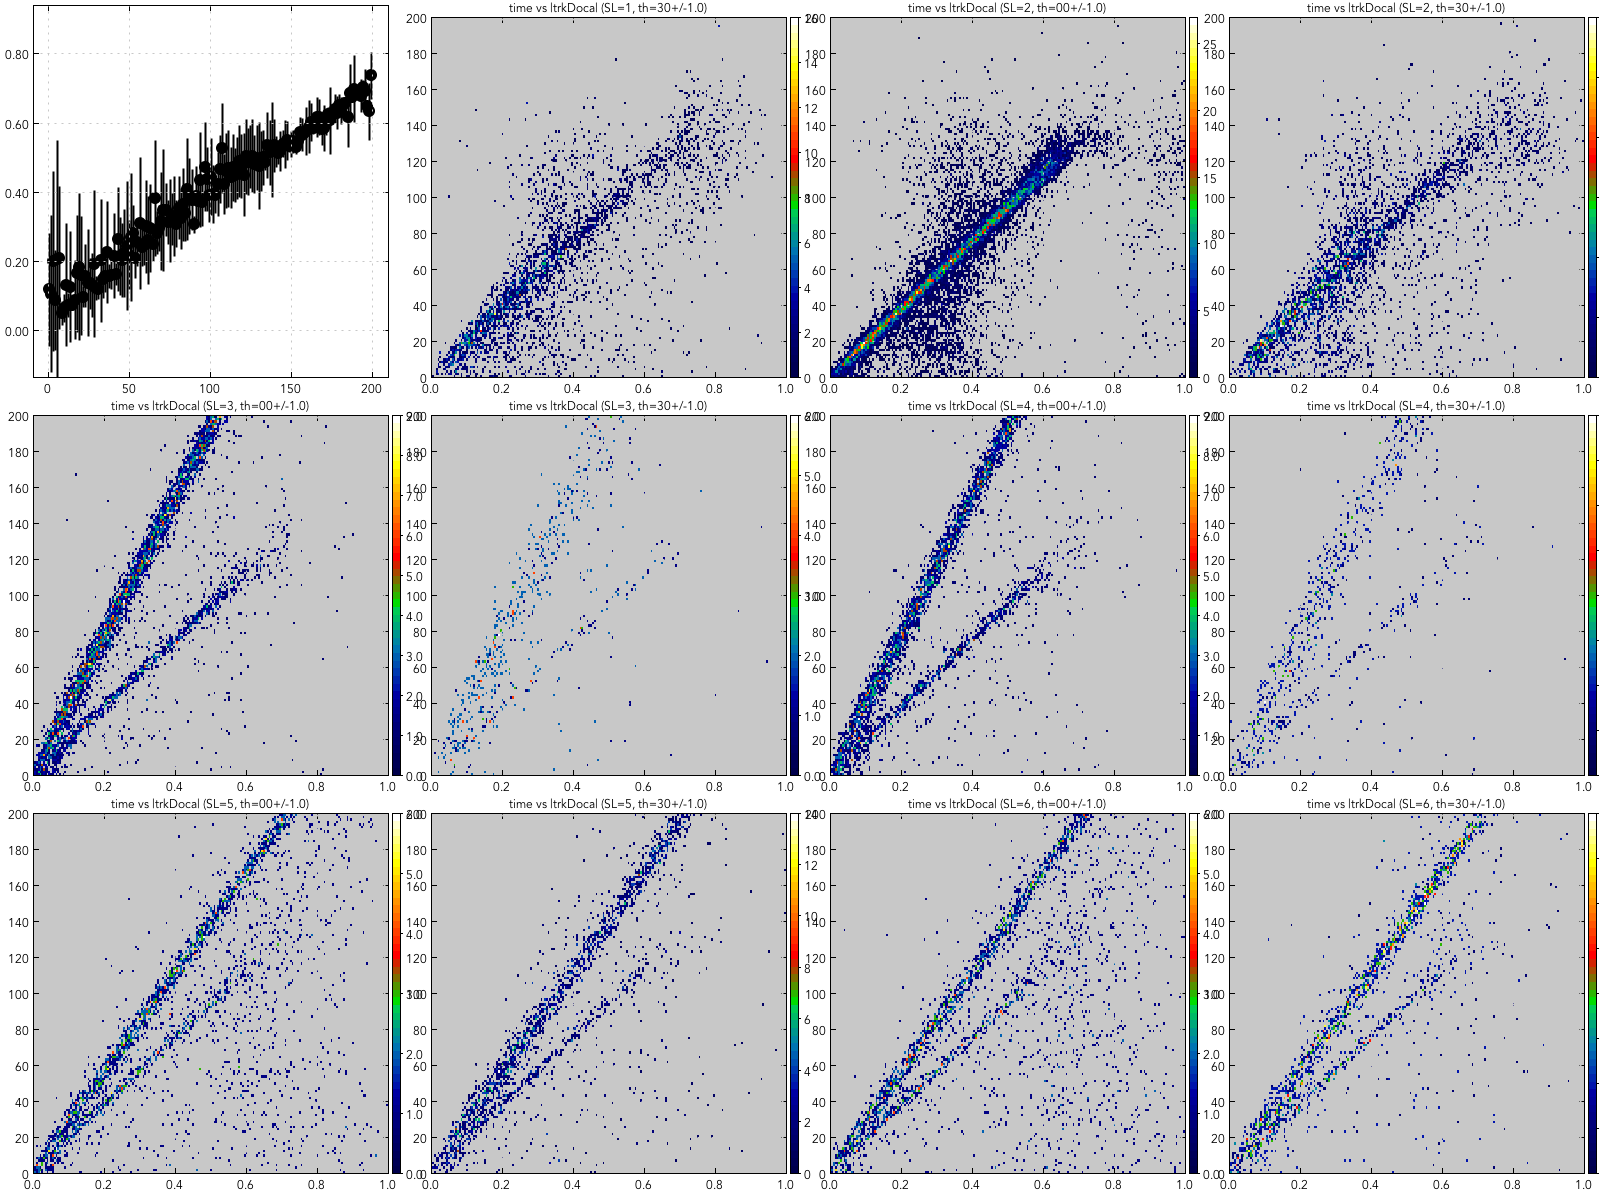
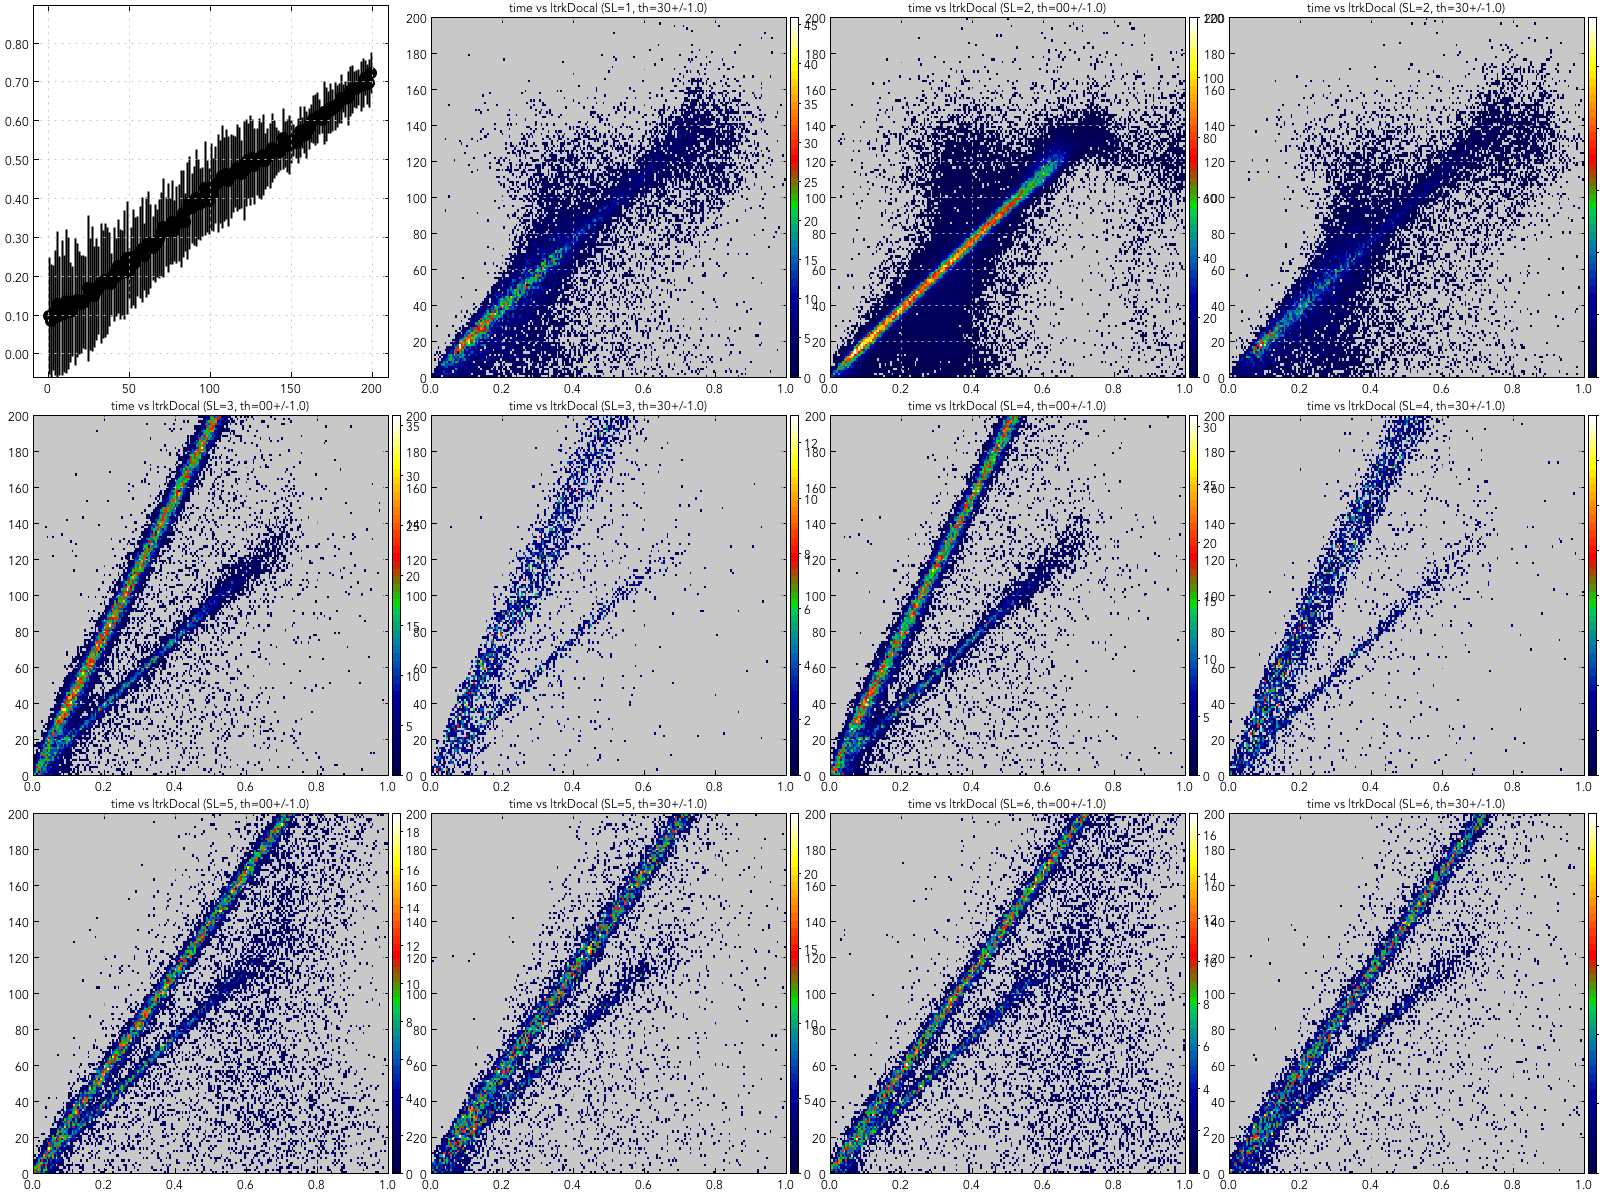
added all sectors/superlayer implemetation

diff --git a/src/org/jlab/dc_calibration/domain/TimeToDistanceFitter.java b/src/org/jlab/dc_calibration/domain/TimeToDistanceFitter.java
@@ -82,8 +82,16 @@ public class TimeToDistanceFitter implements ActionListener, Runnable {
 	private EmbeddedCanvas c01;
 	private EmbeddedCanvas c03;
 	private EmbeddedCanvas c06;
+
+	private EmbeddedCanvas sector1;
+	private EmbeddedCanvas sector2;
+	private EmbeddedCanvas sector3;
+	private EmbeddedCanvas sector4;
+	private EmbeddedCanvas sector5;
+	private EmbeddedCanvas sector6;
+
 	private GraphErrors[][] profileX;
-	private GraphErrors[][] profileXvz;
+	private GraphErrors[][][] profileXvz;
 	private GraphErrors[][] profileY;
 
 	private boolean acceptorder = false;
@@ -258,16 +266,17 @@ public class TimeToDistanceFitter implements ActionListener, Runnable {
 				h2timeVtrkDoca.get(new Coordinate(i, j)).setTitle(hTtl);
 			}
 		}
+		for (int i = 0; i < 6; i++) {
+			for (int j = 0; j < nSL; j++) {
+				for (int k = 0; k < nThBinsVz; k++) { // nThBinsVz theta bins +/-2
+					// deg around 0, 10, 20, 30,
+					// 40, and 50 degs
+					hNm = String.format("Sector %d timeVtrkDocaS%dTh%02d", i, j, k);
+					h2timeVtrkDocaVZ.put(new Coordinate(i, j, k), new H2F(hNm, 200, 0.0, 1.0, 150, 0.0, 200.0));
 
-		for (int i = 0; i < nSL; i++) {
-			for (int j = 0; j < nThBinsVz; j++) { // nThBinsVz theta bins +/-2
-				// deg around 0, 10, 20, 30,
-				// 40, and 50 degs
-				hNm = String.format("timeVtrkDocaS%dTh%02d", i, j);
-				h2timeVtrkDocaVZ.put(new Coordinate(i, j), new H2F(hNm, 200, 0.0, 1.0, 150, 0.0, 200.0));
-
-				hTtl = String.format("time vs |trkDoca| (SL=%d, th(%2.1f,%2.1f))", i + 1, thEdgeVzL[j], thEdgeVzH[j]); // Worked
-				h2timeVtrkDocaVZ.get(new Coordinate(i, j)).setTitle(hTtl);
+					hTtl = String.format("time vs. Doca (SL=%d, th(%2.1f,%2.1f))", j + 1, thEdgeVzL[k], thEdgeVzH[k]); // Worked
+					h2timeVtrkDocaVZ.get(new Coordinate(i, j, k)).setTitle(hTtl);
+				}
 			}
 		}
 	}
@@ -285,6 +294,26 @@ public class TimeToDistanceFitter implements ActionListener, Runnable {
 		c06 = new EmbeddedCanvas();
 		c06.setSize(4 * 400, 6 * 400);
 		c06.divide(4, 6);
+
+		sector1 = new EmbeddedCanvas();
+		sector2 = new EmbeddedCanvas();
+		sector3 = new EmbeddedCanvas();
+		sector4 = new EmbeddedCanvas();
+		sector5 = new EmbeddedCanvas();
+		sector6 = new EmbeddedCanvas();
+
+		sector1.setSize(4 * 400, 6 * 400);
+		sector1.divide(6, 6);
+		sector2.setSize(4 * 400, 6 * 400);
+		sector2.divide(6, 6);
+		sector3.setSize(4 * 400, 6 * 400);
+		sector3.divide(6, 6);
+		sector4.setSize(4 * 400, 6 * 400);
+		sector4.divide(6, 6);
+		sector5.setSize(4 * 400, 6 * 400);
+		sector5.divide(6, 6);
+		sector6.setSize(4 * 400, 6 * 400);
+		sector6.divide(6, 6);
 	}
 
 	protected void processData() {
@@ -344,6 +373,7 @@ public class TimeToDistanceFitter implements ActionListener, Runnable {
 		int nHitsInSeg = 0;
 		for (int j = 0; j < bnkSegs.rows(); j++) {
 			int superlayer = bnkSegs.getInt("superlayer", j);
+			int sector = bnkSegs.getInt("sector", j);
 			gSegmAvgWireTBSegments.put(bnkSegs.getInt("ID", j), bnkSegs.getDouble("avgWire", j));
 			gFitChisqProbTBSegments.put(bnkSegs.getInt("ID", j), bnkSegs.getDouble("fitChisqProb", j));
 
@@ -382,7 +412,7 @@ public class TimeToDistanceFitter implements ActionListener, Runnable {
 						h2timeVtrkDoca.get(new Coordinate(superlayer - 1, 1)).fill(Math.abs(gTrkDoca), gTime);
 					if (bnkSegs.getInt("Hit" + h + "_ID", j) > -1 && thBnVz > -1 && thBnVz < nThBinsVz) {
 						double docaNorm = gTrkDoca / docaMax;
-						h2timeVtrkDocaVZ.get(new Coordinate(superlayer - 1, thBnVz)).fill(Math.abs(docaNorm), gTime);
+						h2timeVtrkDocaVZ.get(new Coordinate(sector - 1, superlayer - 1, thBnVz)).fill(Math.abs(docaNorm), gTime);
 					}
 				}
 			}
@@ -467,11 +497,11 @@ public class TimeToDistanceFitter implements ActionListener, Runnable {
 				profileX[i][j] = h2timeVtrkDoca.get(new Coordinate(i, j)).getProfileX();
 				profileY[i][j] = h2timeVtrkDoca.get(new Coordinate(i, j)).getProfileY();
 				c0.cd(i * 2 + j);
-				c0.draw(h2timeVtrkDoca.get(new Coordinate(i, j))); // c0.draw(profileX[i][j],"same");
+				c0.draw(h2timeVtrkDoca.get(new Coordinate(i, j)));
 				c0.cd(i * 2 + j + 4);
-				c0.draw(profileX[i][j]); // c0.draw(h2timeVtrkDoca[i][j]);
+				c0.draw(profileX[i][j]);
 				c0.cd(i * 2 + j + 8);
-				c0.draw(profileY[i][j]); // c0.draw(h2timeVtrkDoca[i][j]);
+				c0.draw(profileY[i][j]);
 			}
 		}
 		imgNm = "src/images/timeVsTrkDoca_and_Profiles.png";
@@ -484,10 +514,12 @@ public class TimeToDistanceFitter implements ActionListener, Runnable {
 		imgNm = "src/images/timeVsTrkDoca_and_Profiles2.png";
 		c01.save(imgNm);
 
-		profileXvz = new GraphErrors[nSL][nThBinsVz];
-		for (int i = 0; i < nSL; i++) {
-			for (int j = 0; j < nThBinsVz; j++) {
-				profileXvz[i][j] = h2timeVtrkDocaVZ.get(new Coordinate(i, j)).getProfileX();
+		profileXvz = new GraphErrors[6][nSL][nThBinsVz];
+		for (int i = 0; i < 6; i++) {
+			for (int j = 0; j < nSL; j++) {
+				for (int k = 0; k < nThBinsVz; k++) {
+					profileXvz[i][j][k] = h2timeVtrkDocaVZ.get(new Coordinate(i, j, k)).getProfileX();
+				}
 			}
 		}
 		// Lets Run the Fitter
@@ -495,51 +527,79 @@ public class TimeToDistanceFitter implements ActionListener, Runnable {
 		// Done running fitter
 		for (int j = 0; j < nThBinsVz; j++) { // Row #
 			c03.cd(j * 4 + 0);
-			c03.draw(h2timeVtrkDocaVZ.get(new Coordinate(0, j))); // c0.draw(profileX[i][j],"same");
+			c03.draw(h2timeVtrkDocaVZ.get(new Coordinate(0, 0, j))); // c0.draw(profileX[i][j],"same");
 			c03.cd(j * 4 + 1);
-			c03.draw(h2timeVtrkDocaVZ.get(new Coordinate(1, j))); // c0.draw(profileX[i][j],"same");
+			c03.draw(h2timeVtrkDocaVZ.get(new Coordinate(0, 1, j))); // c0.draw(profileX[i][j],"same");
 			c03.cd(j * 4 + 2);
-			c03.draw(profileXvz[0][j]);
+			c03.draw(profileXvz[0][0][j]);
 			c03.cd(j * 4 + 3);
-			c03.draw(profileXvz[1][j]);
+			c03.draw(profileXvz[0][1][j]);
 		}
 		imgNm = "src/images/timeVsTrkDoca_and_ProfilesVZ.png";
 		c03.save(imgNm);
 
-		calibFnToDraw_withGROOT[][] myFitLinesGroot = new calibFnToDraw_withGROOT[nSL][nThBinsVz];
-		for (int i = 0; i < nSL; i++) {
-			for (int j = 0; j < nThBinsVz; j++) {
-				String hNm = String.format("myFitLinesS%dTh%d", i + 1, j);
-				myFitLinesGroot[i][j] = new calibFnToDraw_withGROOT(hNm, 0.0, 1.0, isLinearFit);
-				myFitLinesGroot[i][j].setLineColor(2);
-				myFitLinesGroot[i][j].setLineWidth(3);
-				myFitLinesGroot[i][j].setLineStyle(4);
-				pars4FitLine[5] = 1.0 * (i + 1);
-				pars4FitLine[6] = 0.5 * (thEdgeVzL[j] + thEdgeVzH[j]);
-				pars4FitLine[7] = 2.0 * wpdist[i];
-				myFitLinesGroot[i][j].setParameters(pars4FitLine);
-				System.out.println("Groot f(0/0.5/1.0) = " + myFitLinesGroot[i][j].evaluate(0.0) + ", "
-				        + myFitLinesGroot[i][j].evaluate(0.5) + ", " + myFitLinesGroot[i][j].evaluate(1.0));
+		calibFnToDraw_withGROOT[][][] myFitLinesGroot = new calibFnToDraw_withGROOT[6][nSL][nThBinsVz];
+		for (int i = 0; i < 6; i++) {
+			for (int j = 0; j < nSL; j++) {
+				for (int k = 0; k < nThBinsVz; k++) {
+					String hNm = String.format("myFitLinesS%dTh%d", i + 1, j);
+					myFitLinesGroot[i][j][k] = new calibFnToDraw_withGROOT(hNm, 0.0, 1.0, isLinearFit);
+					myFitLinesGroot[i][j][k].setLineColor(2);
+					myFitLinesGroot[i][j][k].setLineWidth(3);
+					myFitLinesGroot[i][j][k].setLineStyle(4);
+					pars4FitLine[5] = 1.0 * (i + 1);
+					pars4FitLine[6] = 0.5 * (thEdgeVzL[j] + thEdgeVzH[j]);
+					pars4FitLine[7] = 2.0 * wpdist[i];
+					myFitLinesGroot[i][j][k].setParameters(pars4FitLine);
+					System.out.println("Groot f(0/0.5/1.0) = " + myFitLinesGroot[i][j][k].evaluate(0.0) + ", "
+					        + myFitLinesGroot[i][j][k].evaluate(0.5) + ", " + myFitLinesGroot[i][j][k].evaluate(1.0));
 
+				}
 			}
 		}
 
-		for (int j = 0; j < nThBinsVz; j++) {
-			c06.cd(j * 4 + 0);
-			c06.draw(h2timeVtrkDocaVZ.get(new Coordinate(0, j)));
-			c06.draw(myFitLinesGroot[0][j], "same");
-			c06.cd(j * 4 + 1);
-			c06.draw(h2timeVtrkDocaVZ.get(new Coordinate(1, j)));
-			c06.draw(myFitLinesGroot[1][j], "same");
-			c06.cd(j * 4 + 2);
-			c06.draw(profileXvz[0][j]);
-			c06.draw(myFitLinesGroot[0][j], "same");
-			c06.cd(j * 4 + 3);
-			c06.draw(profileXvz[1][j]);
-			c06.draw(myFitLinesGroot[1][j], "same");
+		for (int k = 0; k < nThBinsVz; k++) {
+			c06.cd(k * 4 + 0);
+			c06.draw(h2timeVtrkDocaVZ.get(new Coordinate(0, 0, k)));
+			c06.draw(myFitLinesGroot[0][0][k], "same");
+			c06.cd(k * 4 + 1);
+			c06.draw(h2timeVtrkDocaVZ.get(new Coordinate(0, 1, k)));
+			c06.draw(myFitLinesGroot[0][1][k], "same");
+			c06.cd(k * 4 + 2);
+			c06.draw(profileXvz[0][0][k]);
+			c06.draw(myFitLinesGroot[0][0][k], "same");
+			c06.cd(k * 4 + 3);
+			c06.draw(profileXvz[0][1][k]);
+			c06.draw(myFitLinesGroot[0][1][k], "same");
 		}
 		imgNm = "src/images/myTestFitFunctionAllThBins_wdGroot.png";
 		c06.save(imgNm);
+		int canvasPlace = 0;
+		for (int j = 0; j < nSL; j++) {
+			for (int k = 0; k < nThBinsVz; k++) {
+				sector1.cd(canvasPlace);
+				sector2.cd(canvasPlace);
+				sector3.cd(canvasPlace);
+				sector4.cd(canvasPlace);
+				sector5.cd(canvasPlace);
+				sector6.cd(canvasPlace);
+
+				canvasPlace++;
+
+				sector1.draw(h2timeVtrkDocaVZ.get(new Coordinate(0, j, k)));
+				sector1.draw(myFitLinesGroot[0][j][k], "same");
+				sector2.draw(h2timeVtrkDocaVZ.get(new Coordinate(1, j, k)));
+				sector2.draw(myFitLinesGroot[1][j][k], "same");
+				sector3.draw(h2timeVtrkDocaVZ.get(new Coordinate(2, j, k)));
+				sector3.draw(myFitLinesGroot[2][j][k], "same");
+				sector4.draw(h2timeVtrkDocaVZ.get(new Coordinate(3, j, k)));
+				sector4.draw(myFitLinesGroot[3][j][k], "same");
+				sector5.draw(h2timeVtrkDocaVZ.get(new Coordinate(4, j, k)));
+				sector5.draw(myFitLinesGroot[4][j][k], "same");
+				sector6.draw(h2timeVtrkDocaVZ.get(new Coordinate(5, j, k)));
+				sector6.draw(myFitLinesGroot[5][j][k], "same");
+			}
+		}
 
 		// 10/4/16: Trying to make plot of residuals for each superlayer
 		H1F[] h1Residual = new H1F[nSL];
@@ -552,10 +612,13 @@ public class TimeToDistanceFitter implements ActionListener, Runnable {
 	}
 
 	protected void addToPane() {
-		dcTabbedPane.addCanvasToPane("set 1", c0);
-		dcTabbedPane.addCanvasToPane("set 2", c01);
-		dcTabbedPane.addCanvasToPane("set 3", c03);
-		dcTabbedPane.addCanvasToPane("set 4", c06);
+		dcTabbedPane.addCanvasToPane("Sector 1", sector1);
+		dcTabbedPane.addCanvasToPane("Sector 2", sector2);
+		dcTabbedPane.addCanvasToPane("Sector 3", sector3);
+		dcTabbedPane.addCanvasToPane("Sector 4", sector4);
+		dcTabbedPane.addCanvasToPane("Sector 5", sector5);
+		dcTabbedPane.addCanvasToPane("Sector 6", sector6);
+
 		dcTabbedPane.showFrame();
 
 	}

diff --git a/src/org/jlab/dc_calibration/domain/KrishnaFcn.java b/src/org/jlab/dc_calibration/domain/KrishnaFcn.java
@@ -6,6 +6,7 @@ package org.jlab.dc_calibration.domain;
 
 import static org.jlab.dc_calibration.domain.Constants.beta;
 import static org.jlab.dc_calibration.domain.Constants.cos30;
+import static org.jlab.dc_calibration.domain.Constants.nThBinsVz;
 import static org.jlab.dc_calibration.domain.Constants.rad2deg;
 import static org.jlab.dc_calibration.domain.Constants.thEdgeVzH;
 import static org.jlab.dc_calibration.domain.Constants.thEdgeVzL;
@@ -18,10 +19,10 @@ public class KrishnaFcn implements FCNBase {
 
 	private int slNum;
 	private int nThBins;
-	private GraphErrors[][] profileX;
+	private GraphErrors[][][] profileX;
 	private boolean isLinear = false;
 
-	public KrishnaFcn(int slNum, int nThBins, GraphErrors[][] profileX, boolean isLinear) {
+	public KrishnaFcn(int slNum, int nThBins, GraphErrors[][][] profileX, boolean isLinear) {
 		this.profileX = profileX;
 		this.slNum = slNum;
 		this.nThBins = nThBins;
@@ -40,32 +41,32 @@ public class KrishnaFcn implements FCNBase {
 		double measTime = 0.;
 		double measTimeErr = 0.;
 		double calcTime = 0.;
+		for (int sector = 0; sector < 6; sector++) {
+			for (int sl = 0; sl < slNum; sl++) {
+				for (int th = 1; th < nThBinsVz; th++) { // Using only some theta binsbetween 0 and 30 degrees
+					thetaDeg = 0.5 * (thEdgeVzL[th] + thEdgeVzH[th]);// No 0.5 factor used before 9/20/16
+					for (int i = 0; i < profileX[sector][sl][th].getDataSize(0); i++) {
+						docaNorm = profileX[sector][sl][th].getDataX(i);
+						measTime = profileX[sector][sl][th].getDataY(i);
+						measTimeErr = profileX[sector][sl][th].getDataEY(i);
+						calcTime = isLinear ? calcTimeFunc(0, sl + 1, docaNorm, par) : calcTimeFunc(0, sl + 1, thetaDeg, docaNorm, par);
 
-		for (int sl = 0; sl < slNum; sl++) {
-			for (int th = 1; th < 3; th++) { // Using only some theta bins
-			                                 // between 0 and 30 degress
-				thetaDeg = 0.5 * (thEdgeVzL[th] + thEdgeVzH[th]);// No 0.5 factor used before 9/20/16
-				for (int i = 0; i < profileX[sl][th].getDataSize(0); i++) {
-					docaNorm = profileX[sl][th].getDataX(i);
-					measTime = profileX[sl][th].getDataY(i);
-					measTimeErr = profileX[sl][th].getDataEY(i);
-					calcTime = isLinear ? calcTimeFunc(0, sl + 1, docaNorm, par) : calcTimeFunc(0, sl + 1, thetaDeg, docaNorm, par);
-
-					// 9/27/16: without docaNorm<0.9, the minimization was
-					// very unstable. For example,
-					// tmax for SL=2 (i.e. tmax2) came out around 150 when
-					// the # of events used was N=20000 or 200000
-					// where as it came out around 88 ns when N was
-					// somewhere in between such as 80000, 100000 etc.
-					// My guess was some of the bins with very low statistic
-					// had unrealistic errors bars and biased
-					// the minimization. When I used "delta = (measTime -
-					// calcTime);", the tmax2 result was more
-					// realistic (i.e., closer to 150 ns) than 88 ns.
-					// if(measTimeErr==measTimeErr && measTimeErr>0.0 )
-					if (measTimeErr == measTimeErr && measTimeErr > 0.0 && docaNorm < 0.9) {
-						delta = (measTime - calcTime) / measTimeErr; // error weighted deviation
-						chisq += delta * delta;
+						// 9/27/16: without docaNorm<0.9, the minimization was
+						// very unstable. For example,
+						// tmax for SL=2 (i.e. tmax2) came out around 150 when
+						// the # of events used was N=20000 or 200000
+						// where as it came out around 88 ns when N was
+						// somewhere in between such as 80000, 100000 etc.
+						// My guess was some of the bins with very low statistic
+						// had unrealistic errors bars and biased
+						// the minimization. When I used "delta = (measTime -
+						// calcTime);", the tmax2 result was more
+						// realistic (i.e., closer to 150 ns) than 88 ns.
+						// if(measTimeErr==measTimeErr && measTimeErr>0.0 )
+						if (measTimeErr == measTimeErr && measTimeErr > 0.0 && docaNorm < 0.9) {
+							delta = (measTime - calcTime) / measTimeErr; // error weighted deviation
+							chisq += delta * delta;
+						}
 					}
 				}
 			}
